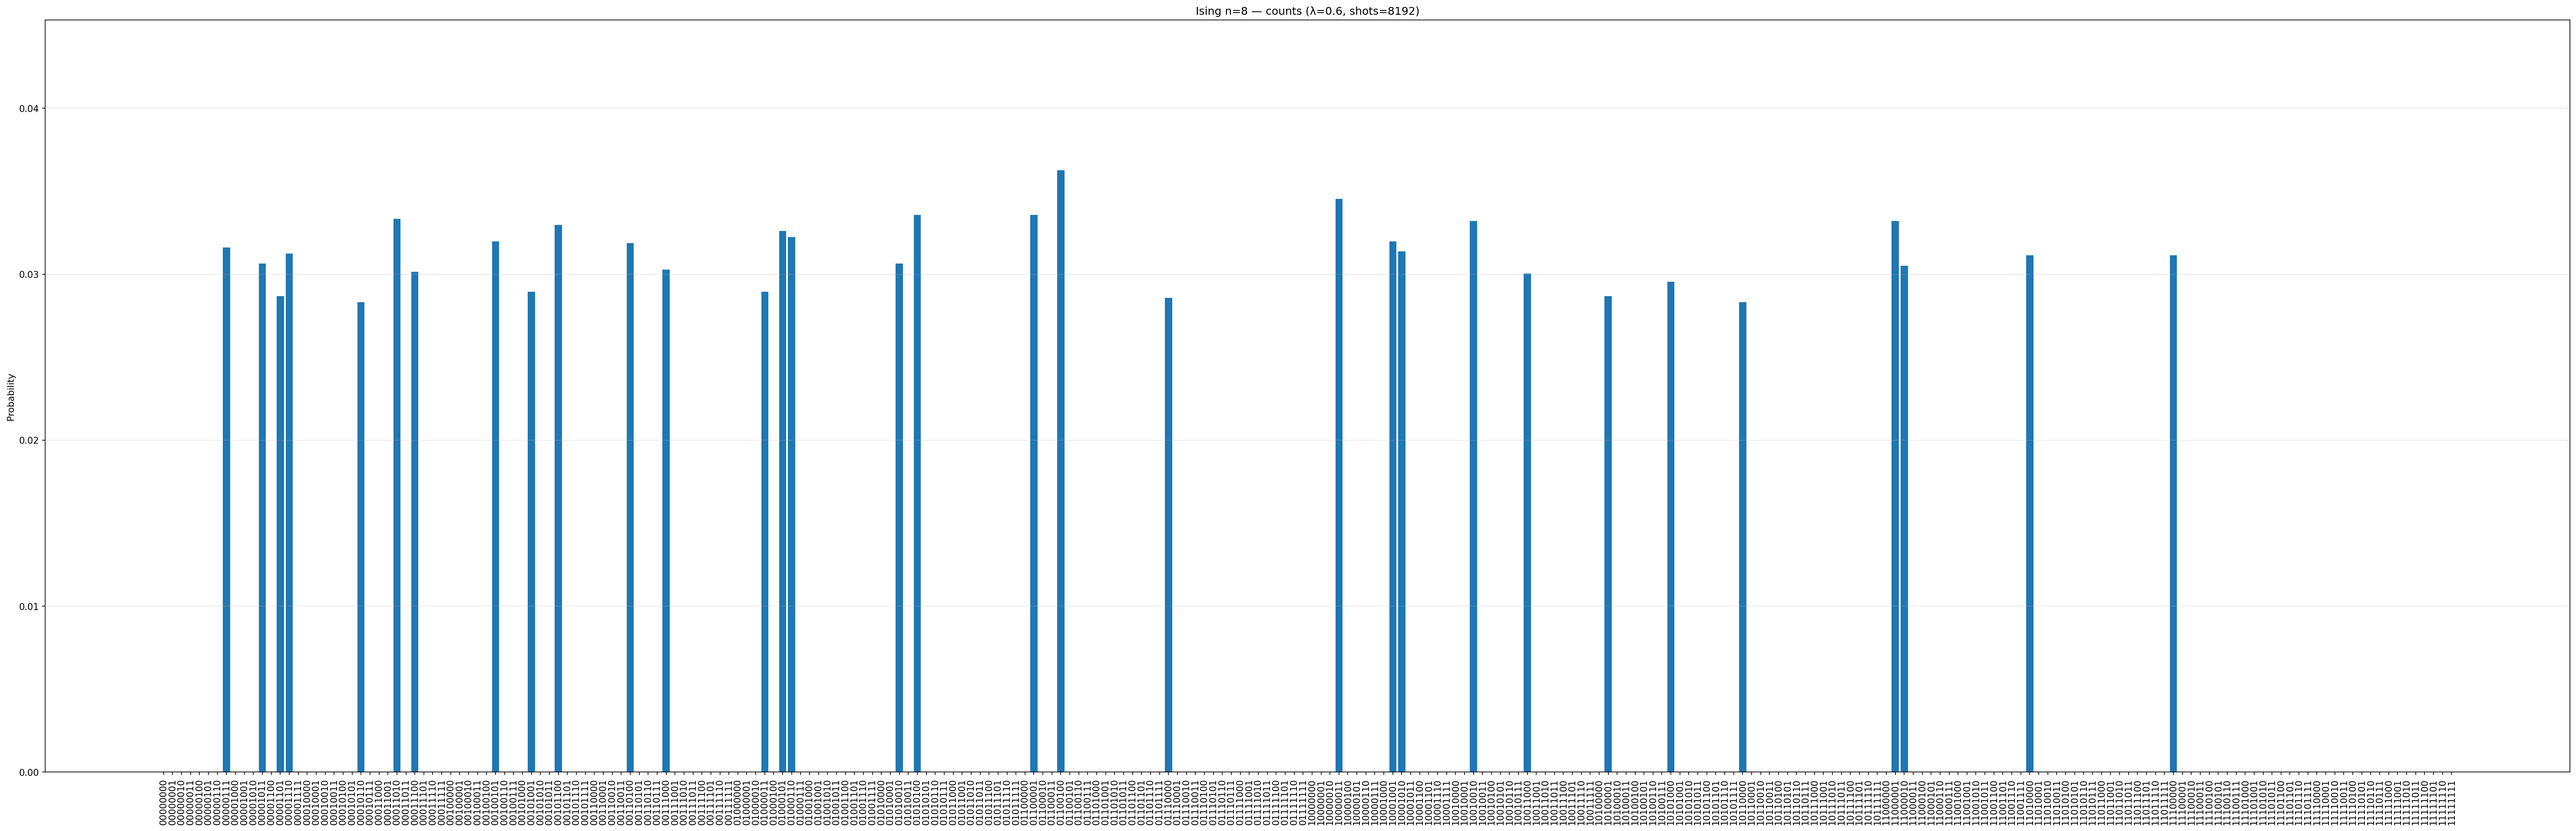
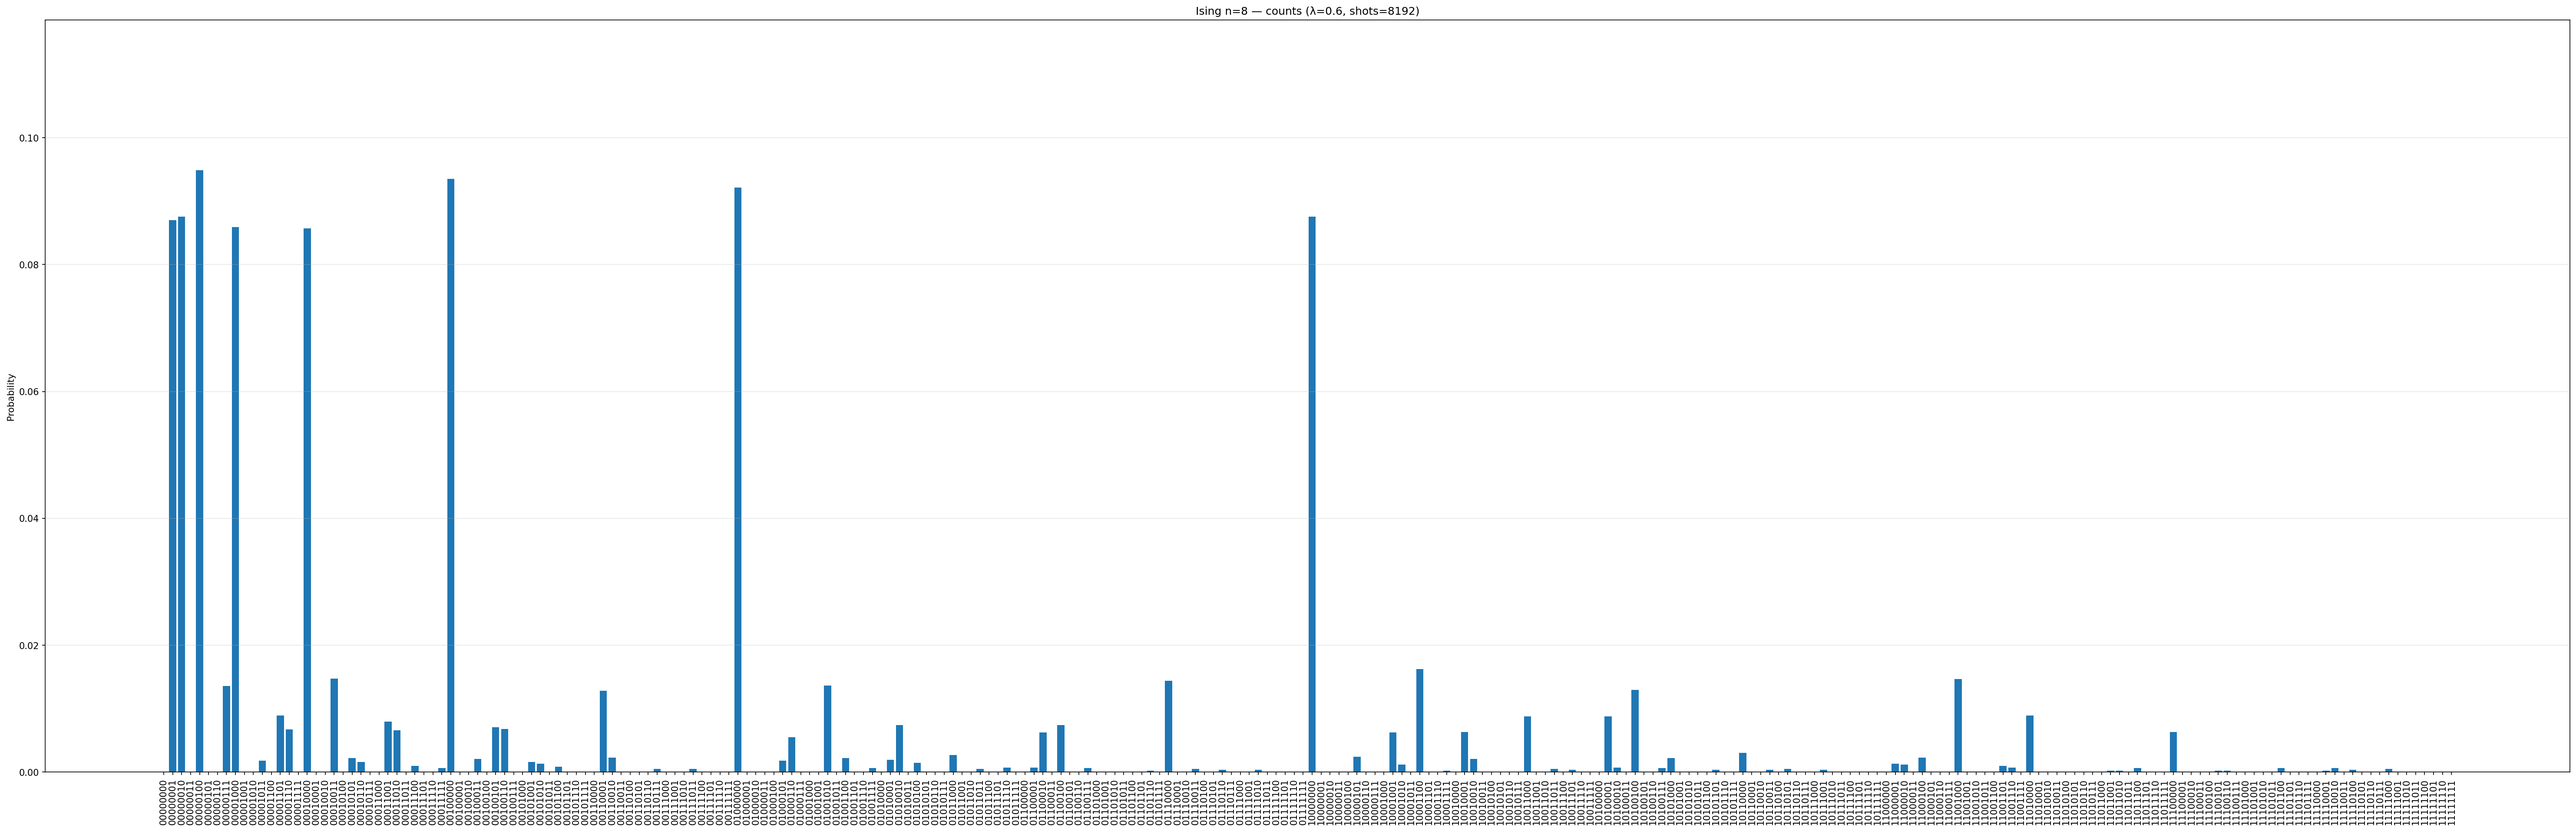
cleaner visualisation of circuit

diff --git a/n_qubit_cleanercircuit.py b/n_qubit_cleanercircuit.py
@@ -9,7 +9,7 @@ from collections import OrderedDict
 # -----------------
 # User parameters
 # -----------------
-n = 8
+n = 4                       # beliebiges gerades n: 4, 8, 16, ...
 lam_list = [0.6, 1.2, 1.8]
 shots = 2 * 4096
 flip_all_for_lam_gt_1 = True
@@ -58,9 +58,9 @@ def F_block_dagger(k, n):
         [0, 0,     0,     -tw],
     ], dtype=complex)
     inst = Operator(F.conj().T).to_instruction()
-    inst.name = f"F†[{k}|{n}]"     
+    inst.name = f"F†[{k}|{n}]"
     phi = 2*np.pi*k/n
-    inst.label = f"φ={phi:.3f}"         
+    inst.label = f"φ={phi:.3f}"
     return inst
 
 def B_block_dagger(theta):
@@ -73,11 +73,9 @@ def B_block_dagger(theta):
         [1j*s, 0, 0,  c ],
     ], dtype=complex)
     inst = Operator(B.conj().T).to_instruction()
-    inst.name = "B†"                  
-    inst.label = f"θ={theta:.3f}"      
+    inst.name = "B†"
+    inst.label = f"θ={theta:.3f}"
     return inst
-
-
 
 def theta_k(k, n, lam):
     ck = np.cos(2*np.pi*k/n)
@@ -124,19 +122,55 @@ def counts_full_norm(counts, n):
     return OrderedDict((b, counts.get(b, 0)/total) for b in all_bitstrings(n))
 
 # -----------------
-# Circuit construction
+# n=4-Spezialfall (paper-exakt)
 # -----------------
-def build_circuit_counts(n, lam):
-    qc = QuantumCircuit(n, n)
+def build_circuit_counts_n4(lam):
+    n_local = 4
+    qc = QuantumCircuit(n_local, n_local)
 
-    # Initial state:
+    # Initial state für λ<1 so gewählt, dass nach FFT†+Bog†
+    # der Zustand aus Gl.(26) rauskommt (1er- und 3er-Peaks).
     if lam < 1:
-        #  |1010>   = q3 q2 q1 q0 = 1 0 1 0
+        # das ist die Variante, die wir vorher empirisch getestet haben
         qc.x(1)
         qc.x(2)
         qc.x(3)
     else:
         # |0000>
+        pass
+
+    qc.barrier()
+
+    # Undo Bogoliubov
+    qc.append(bogoliubov_layer_subcircuit(n_local, lam).to_instruction(), range(n_local))
+    qc.barrier()
+
+    # Undo FFT
+    qc.append(fermionic_fft_dagger_subcircuit(n_local).to_instruction(), range(n_local))
+    qc.barrier()
+
+    # Optional flip für λ>1, damit Hauptpeak bei 1111
+    if lam > 1 and flip_all_for_lam_gt_1:
+        for q in range(n_local):
+            qc.x(q)
+
+    # Korrektur der Qubit-Order wie im alten, funktionierenden n=4-Code
+    qc.swap(3, 2)
+
+    qc.measure(range(n_local), range(n_local))
+    return qc
+
+# -----------------
+# Allgemeiner Circuit (n != 4)
+# -----------------
+def build_circuit_counts_generic(n, lam):
+    qc = QuantumCircuit(n, n)
+
+    # Allgemeiner Initialzustand im diagonalen Bild:
+    # |000...01> für λ<1, |000...00> für λ>1
+    if lam < 1:
+        qc.x(n-1)
+    else:
         pass
 
     qc.barrier()
@@ -149,16 +183,20 @@ def build_circuit_counts(n, lam):
     qc.append(fermionic_fft_dagger_subcircuit(n).to_instruction(), range(n))
     qc.barrier()
 
-    # Optional flip for λ>1 so main peak is at 1111
+    # Optional flip für λ>1, damit Hauptpeak bei 111...1
     if lam > 1 and flip_all_for_lam_gt_1:
         for q in range(n):
             qc.x(q)
 
-    # Correct qubit order
-    qc.swap(3,2)
-
     qc.measure(range(n), range(n))
     return qc
+
+# Wrapper: wählt je nach n die richtige Version
+def build_circuit_counts(n, lam):
+    if n == 4:
+        return build_circuit_counts_n4(lam)
+    else:
+        return build_circuit_counts_generic(n, lam)
 
 # -----------------
 # Draw standalone internal circuits once
@@ -168,7 +206,7 @@ circuit_drawer(
     fft_circ,
     output="mpl",
     style=BLOCK_STYLE,
-    
+    reverse_bits=False,
     filename=os.path.join(circ_dir, f"fft_dagger_n{n}.png")
 )
 
@@ -181,20 +219,22 @@ results = []
 for lam in lam_list:
     qc = build_circuit_counts(n, lam)
 
-    # Draw Bogoliubov† layer for this λ
+    # Bogoliubov†-Layer für dieses λ
     bog_circ = bogoliubov_layer_subcircuit(n, lam)
     circuit_drawer(
         bog_circ,
         output="mpl",
         style=BLOCK_STYLE,
+        reverse_bits=False,
         filename=os.path.join(circ_dir, f"bogoliubov_dagger_n{n}_lam_{lam:.2f}.png")
     )
 
-    # Draw full circuit for this λ
+    # Voller Circuit für dieses λ
     circuit_drawer(
         qc,
         output="mpl",
         style=BLOCK_STYLE,
+        reverse_bits=False,
         filename=os.path.join(circ_dir, f"full_circuit_n{n}_lam_{lam:.2f}.png")
     )
 
@@ -207,7 +247,7 @@ for lam in lam_list:
     for bit, p in sorted(full.items(), key=lambda x:x[1], reverse=True)[:8]:
         print(f"  {bit}  p={p:.6f}")
 
-    # Plot single histogram
+    # Einzel-Histogramm
     labels = all_bitstrings(n)
     x = np.arange(len(labels))
     fig, ax = plt.subplots(figsize=(50, 15))
@@ -222,7 +262,7 @@ for lam in lam_list:
                 dpi=150, bbox_inches="tight")
     plt.close(fig)
 
-# Combined grid
+# Kombiniertes Grid
 labels = all_bitstrings(n)
 cols = len(results)
 fig, axes = plt.subplots(1, cols, figsize=(5*cols, 4), sharey=True)
